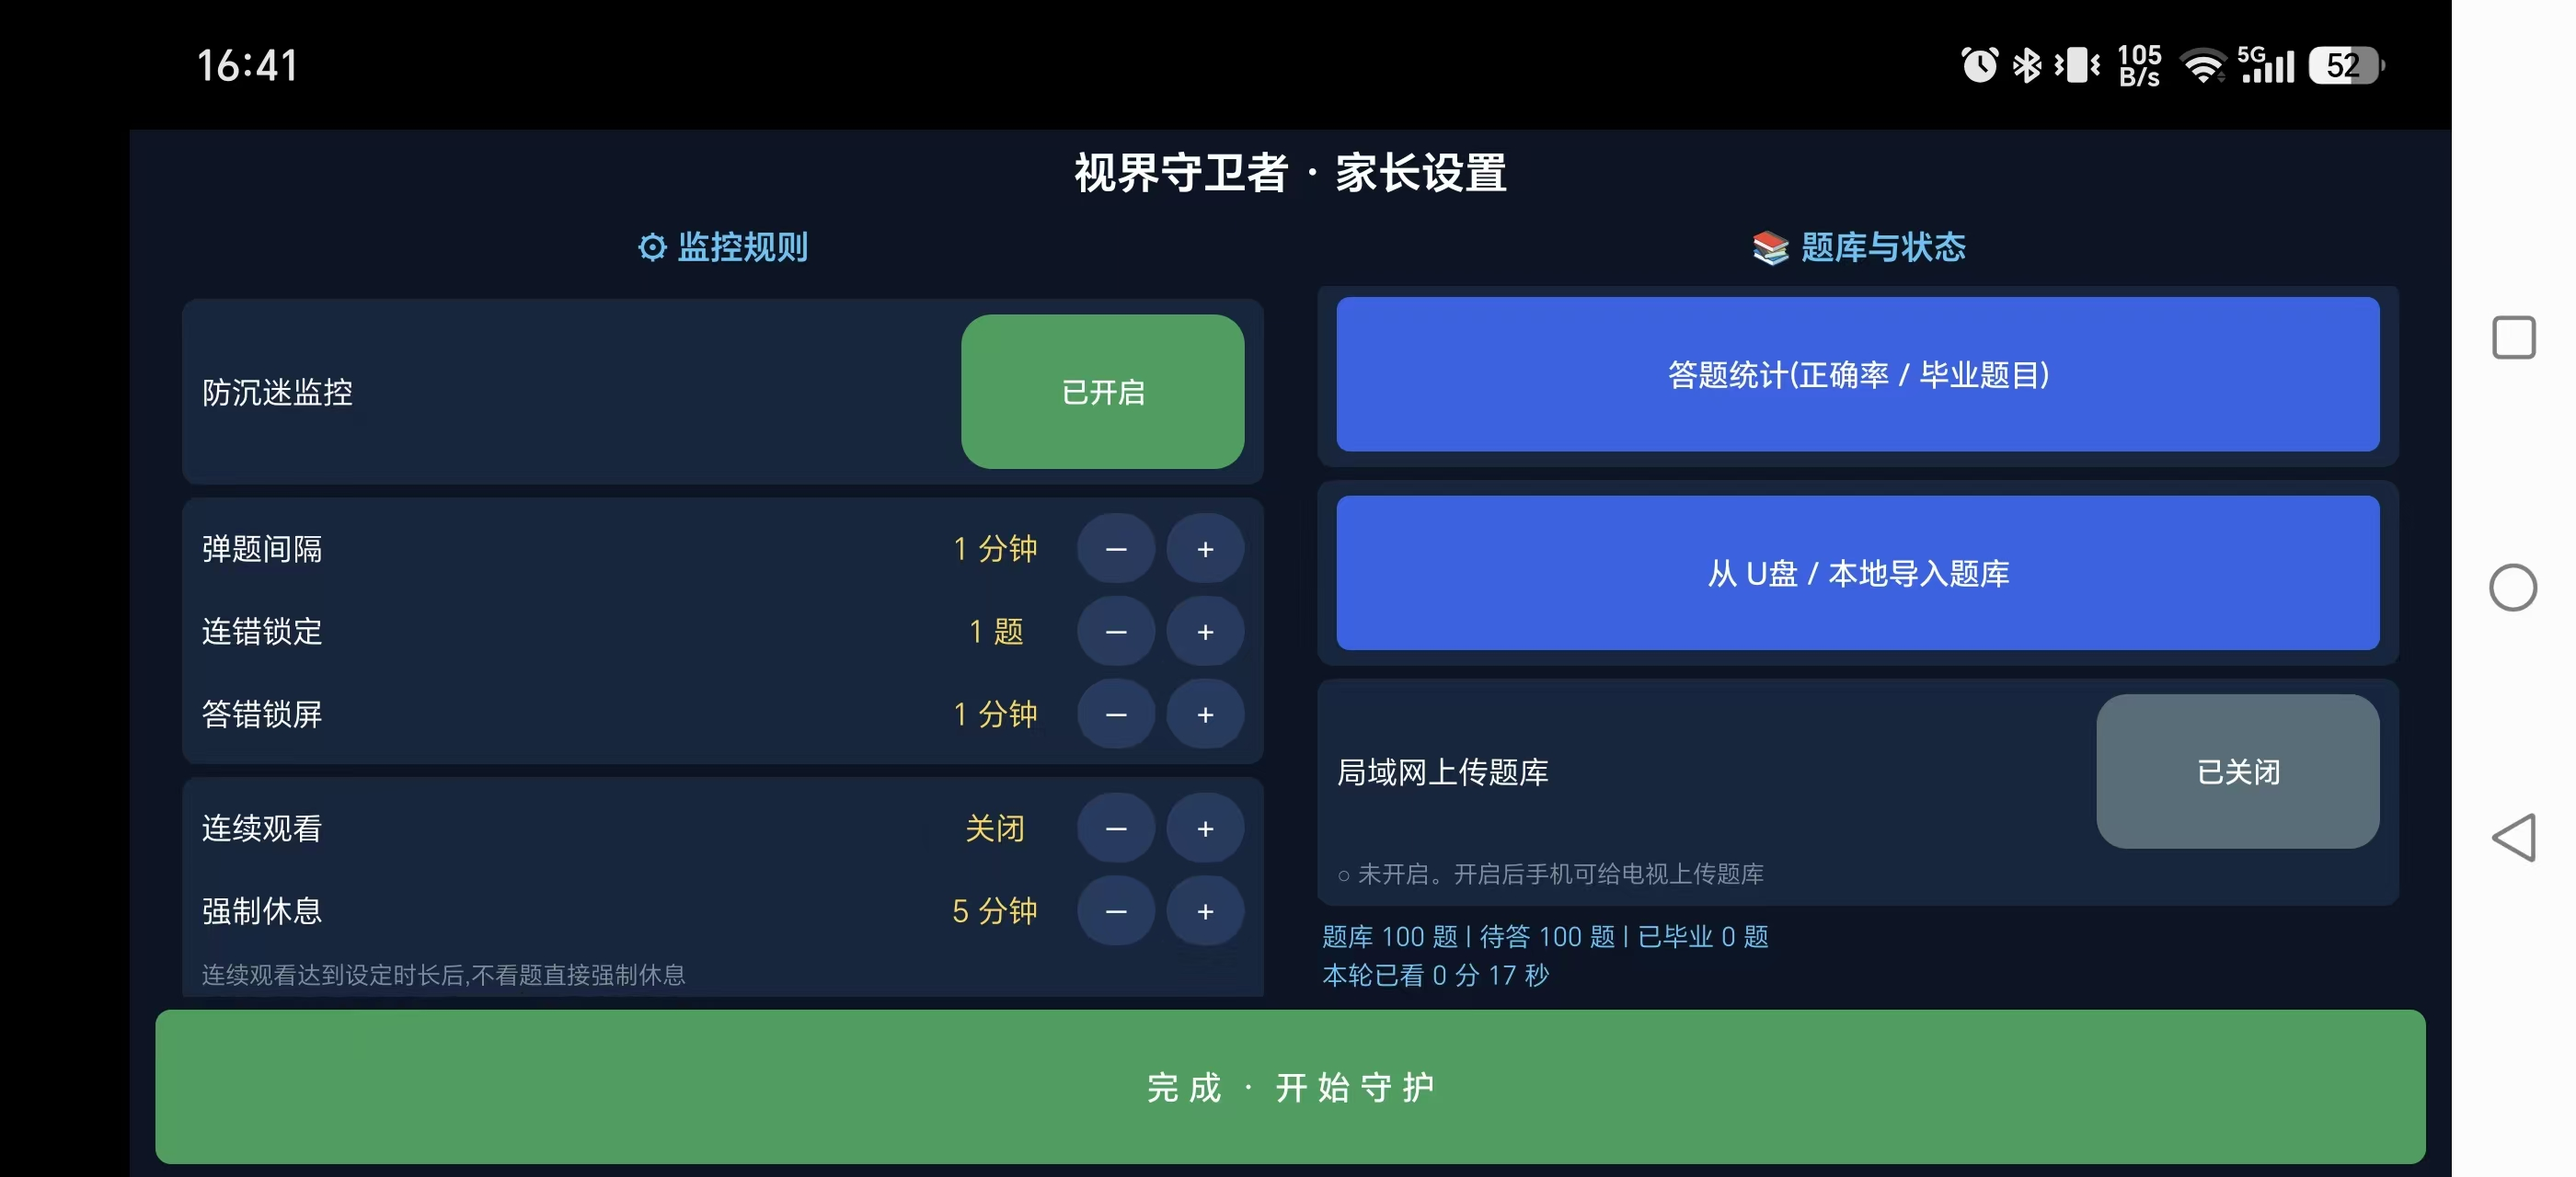
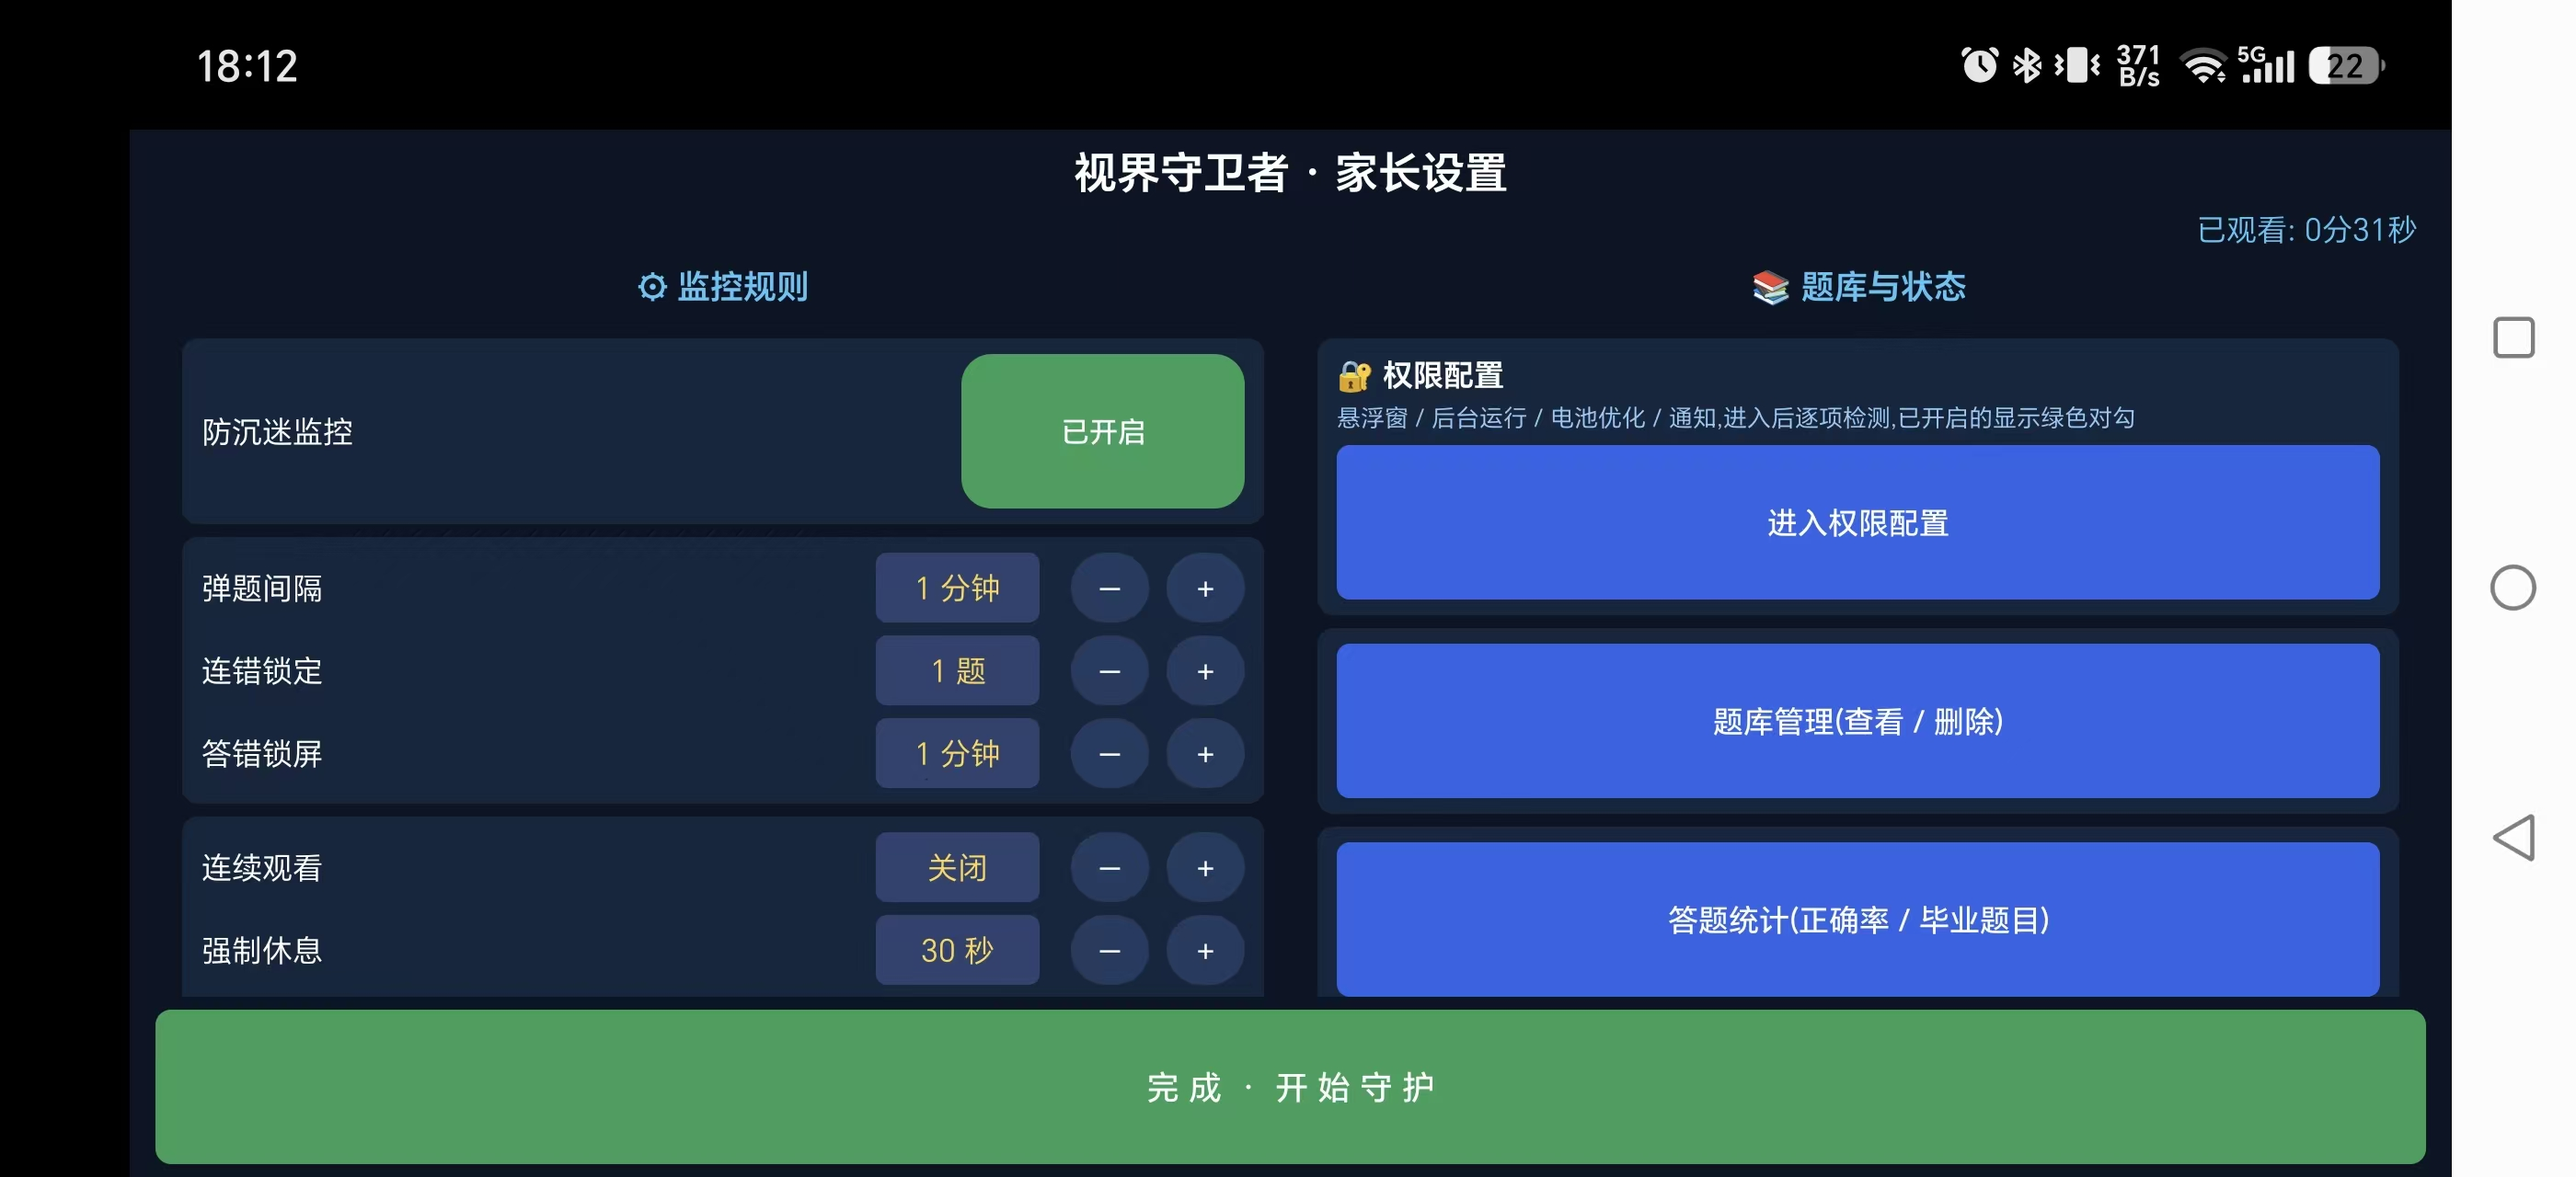
密码输入框右侧增加确认按钮,键盘回车/遥控器OK保留;构建号70

diff --git a/app/src/main/java/com/parental/tvguard/PasswordActivity.java b/app/src/main/java/com/parental/tvguard/PasswordActivity.java
@@ -17,6 +17,7 @@ import android.util.TypedValue;
 import android.os.Bundle;
 import android.view.Gravity;
 import android.view.KeyEvent;
+import android.view.View;
 import android.view.ViewGroup;
 import android.widget.EditText;
 import android.widget.LinearLayout;
@@ -79,12 +80,45 @@ public class PasswordActivity extends Activity {
             root.addView(inputConfirm, matchWrap(dp(0), dp(12)));
         }
 
+        // 密码输入框 + 右侧确认按钮(键盘回车/遥控器OK仍然可用)
+        LinearLayout inputRow = new LinearLayout(this);
+        inputRow.setOrientation(LinearLayout.HORIZONTAL);
+        inputRow.setGravity(Gravity.CENTER_VERTICAL);
+
         input = new EditText(this);
         input.setHint(mode == MODE_VERIFY ? "密码" : "新密码(4-8位数字)");
         input.setInputType(android.text.InputType.TYPE_CLASS_NUMBER
                 | android.text.InputType.TYPE_NUMBER_VARIATION_PASSWORD);
         styleInput(input);
-        root.addView(input, matchWrap(dp(0), dp(12)));
+        inputRow.addView(input, new LinearLayout.LayoutParams(
+                0, ViewGroup.LayoutParams.WRAP_CONTENT, 1f));
+
+        android.widget.Button ok = new android.widget.Button(this,
+                null, android.R.attr.borderlessButtonStyle);
+        ok.setText("确认");
+        ok.setTextSize(TypedValue.COMPLEX_UNIT_PX, UiUtil.px(this, UiUtil.TEXT_OPTION));
+        ok.setTextColor(Color.WHITE);
+        ok.setAllCaps(false);
+        ok.setIncludeFontPadding(false);
+        ok.setPadding(dp(24), dp(12), dp(24), dp(12));
+        ok.setMinimumHeight(dp(56));
+        android.graphics.drawable.GradientDrawable okBg =
+                new android.graphics.drawable.GradientDrawable();
+        okBg.setCornerRadius(dp(10));
+        okBg.setColor(Color.parseColor("#2E63E7"));
+        ok.setBackground(okBg);
+        ok.setFocusable(true);
+        ok.setOnClickListener(new View.OnClickListener() {
+            @Override
+            public void onClick(View v) {
+                submit();
+            }
+        });
+        LinearLayout.LayoutParams okLp = new LinearLayout.LayoutParams(
+                ViewGroup.LayoutParams.WRAP_CONTENT, ViewGroup.LayoutParams.WRAP_CONTENT);
+        okLp.leftMargin = dp(12);
+        inputRow.addView(ok, okLp);
+        root.addView(inputRow, matchWrap(dp(0), dp(12)));
 
         tvError = new TextView(this);
         tvError.setTextColor(Color.parseColor("#E57373"));
@@ -93,7 +127,7 @@ public class PasswordActivity extends Activity {
         root.addView(tvError, matchWrap(dp(0), dp(12)));
 
         TextView hint = new TextView(this);
-        hint.setText("输入完成后按遥控器 OK / 回车 确认");
+        hint.setText("输入完成后点「确认」,或按遥控器 OK / 回车");
         hint.setTextColor(Color.parseColor("#78909C"));
         hint.setTextSize(TypedValue.COMPLEX_UNIT_PX, UiUtil.px(this, UiUtil.TEXT_LABEL));
         hint.setGravity(Gravity.CENTER);
